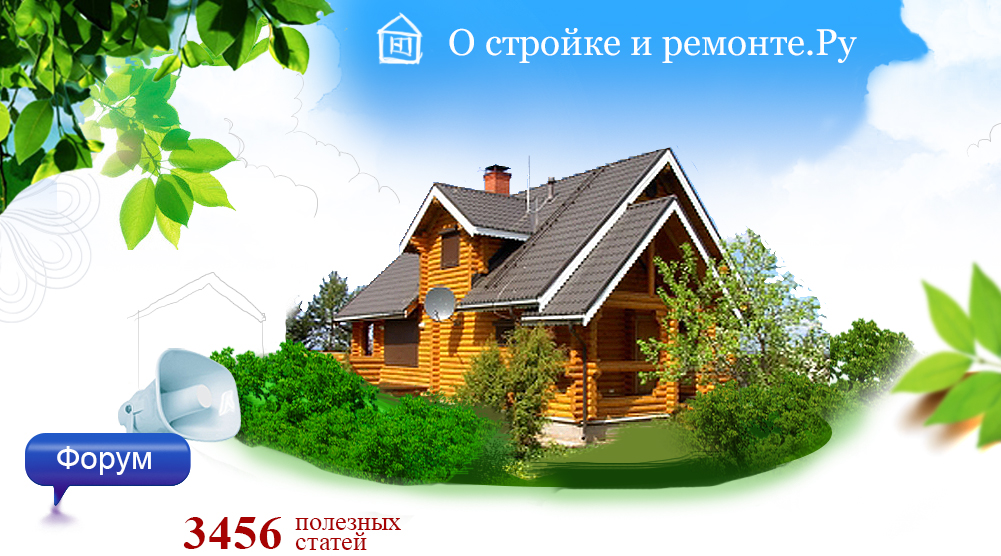
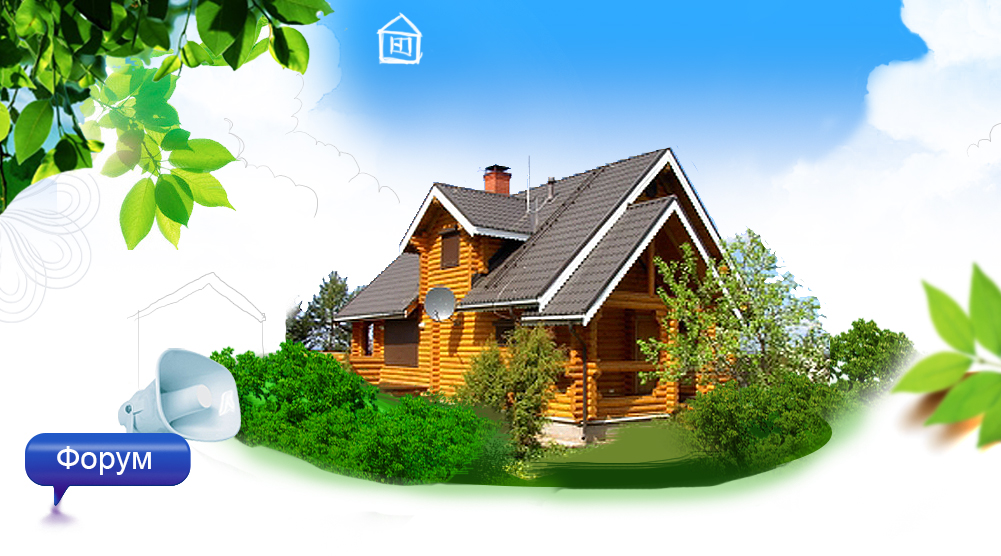
new changes

Changed region(s): [[0.4336, 0.0306, 0.8671, 0.1223], [0.1858, 0.9173, 0.4026, 1.0]]

diff --git a/css/style.css b/css/style.css
@@ -39,6 +39,43 @@ header
     background-position: center;
     
 }
+.forum
+{
+    width: 166px;
+    height: 54px;
+    background-color: transparent;
+    display: inline-block;
+    left: 24px;
+    top: 433px;
+    position: absolute;
+    border-radius: 20px 20px 20px 20px;
+    
+}
+.statyi
+{
+    width: 247px;
+    height: 58px;
+    display: inline-block;
+    left: 182px;
+    top: 508px;
+    position: absolute;
+    border-bottom: 3px solid #a60202;
+}
+.statyi span
+{
+    color: #a60202;
+    font-size: 48px;
+    line-height: normal;
+    font-weight: bold;
+}
+.statyi p
+{
+    color: #a60202;
+    font-size: 26px;
+    line-height: 21px;
+    font-weight: bold;
+    display: inline-block;
+}
 #strdoma
 {
     color: #000;
@@ -506,18 +543,18 @@ footer
     
     background-repeat: no-repeat;
 }
-nav
+footer nav
 {
     padding-top: 130px;
     padding-left: 136px;
     
 }
-nav li
+footer nav li
 {
     display: inline-block;
     padding-left: 9px;  
 }
-nav li a {
+footer nav li a {
     color: black;
    
 }
